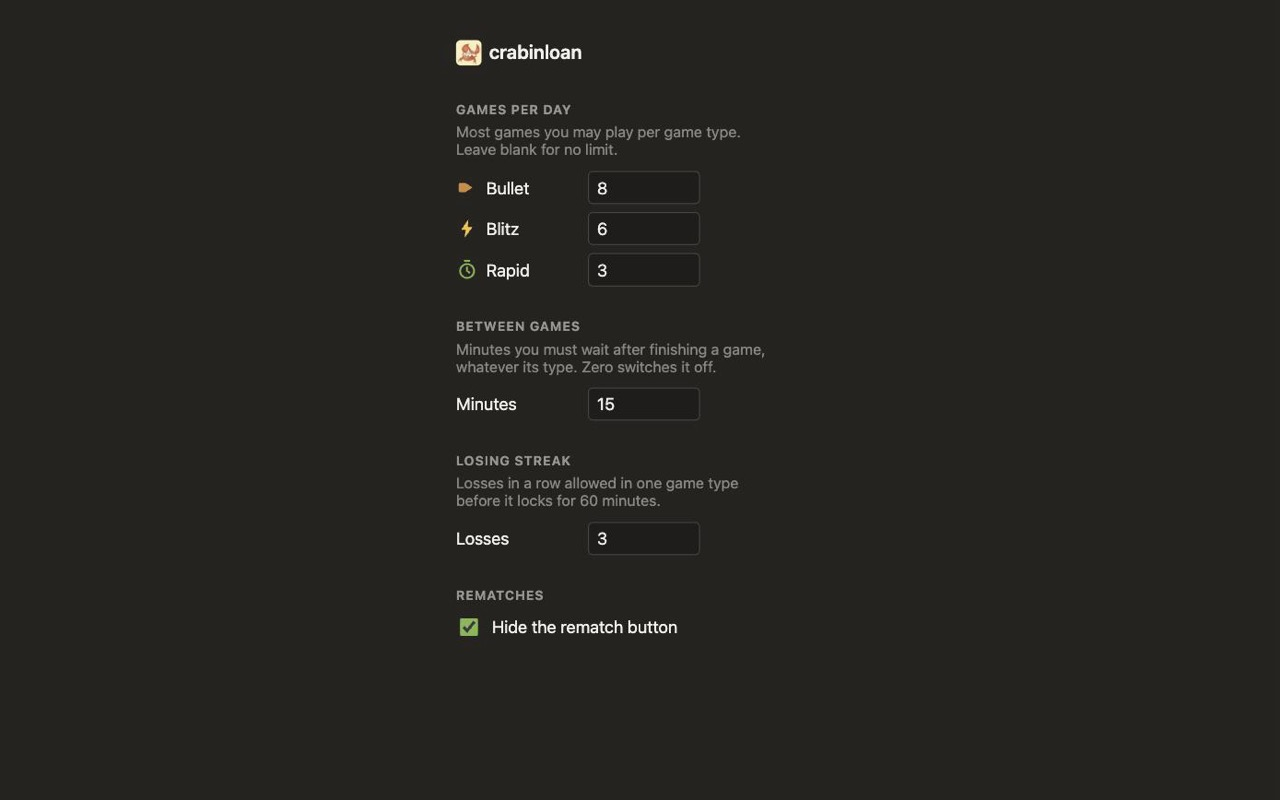
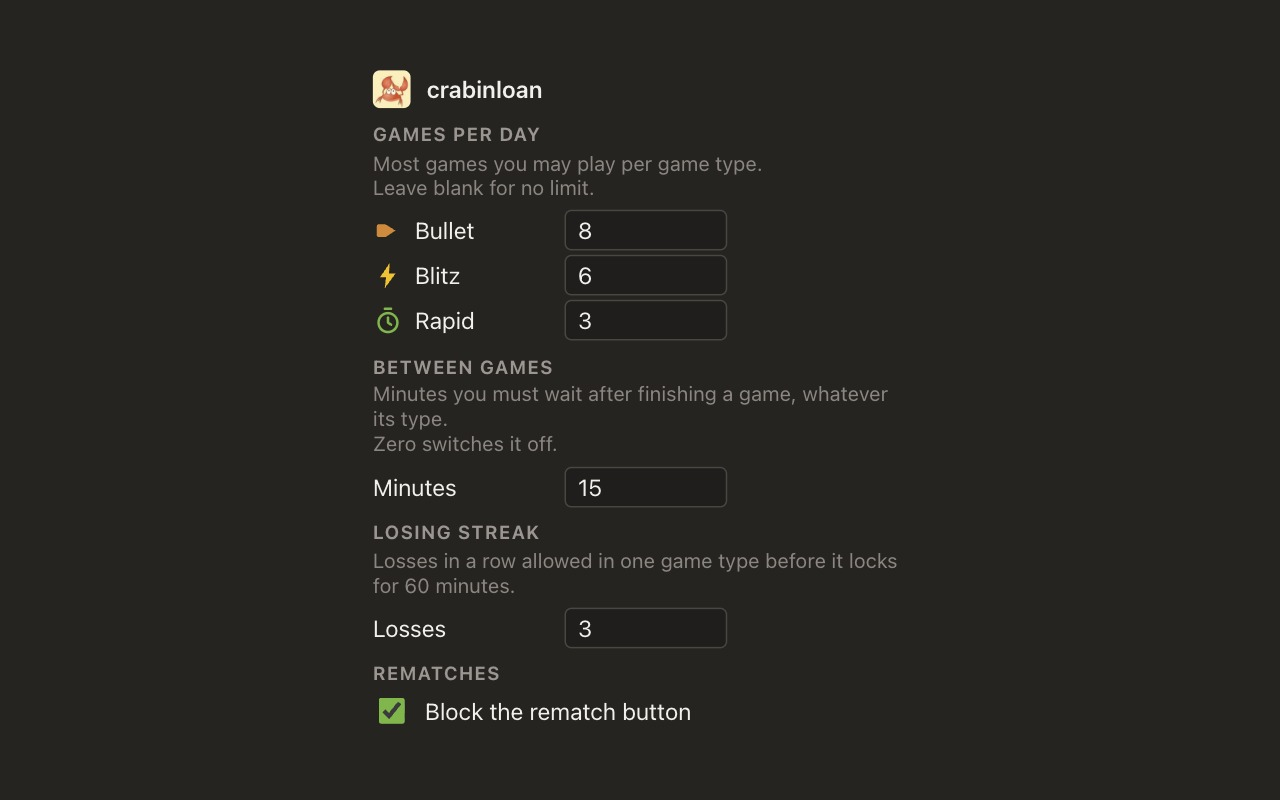
Show the interface that is actually shipping
The listing had a popup from before the record and the rating, and a settings page
from before it was rebuilt for the dialog.

Changed region(s): [[0.2812, 0.0312, 0.6875, 0.9062]]

diff --git a/store/chrome-listing.md b/store/chrome-listing.md
@@ -48,15 +48,21 @@ Not affiliated with Chess.com.
 In `store/screenshots/`, at the 1280×800 the dashboard wants. Suggested order:
 
 1. **`1-popup.jpg`** — the popup over a real chess.com lobby: today's count per game type,
-   blitz spent, and the wait until the next game. The page behind is dimmed so the popup
-   reads as the subject; nothing in the interface is faked.
+   how those games went and what they did to your rating, blitz spent, and the wait until
+   the next game. The page behind is dimmed so the popup reads as the subject; nothing in
+   the interface is faked.
 2. **`2-rematch-blocked.jpg`** — the blocking screen after a game, produced by the real
    overlay code running on a real chess.com page.
 3. **`3-settings.jpg`** — everything that can be configured, which is little on purpose.
 
-They were captured against the live site with the real markup and stylesheets, so they
-will drift if the interface changes. Worth redoing before any submission that follows a
-visual change.
+The chess.com behind the first two was captured against the live site; the popup and the
+settings page are the built bundle rendered at its own size, since neither can be opened as
+a page to capture. So they drift whenever the interface does, and `pnpm screenshots` redoes
+the first and the third from a fresh build — run it before any submission that follows a
+visual change. The second one needs a real game to end and is not made by a script.
+
+`store/backdrop-chesscom.jpg` is the live-site capture the popup is composited onto. It is
+kept out of `screenshots/` so nothing uploads it by mistake.
 
 ## Privacy practices tab
 
